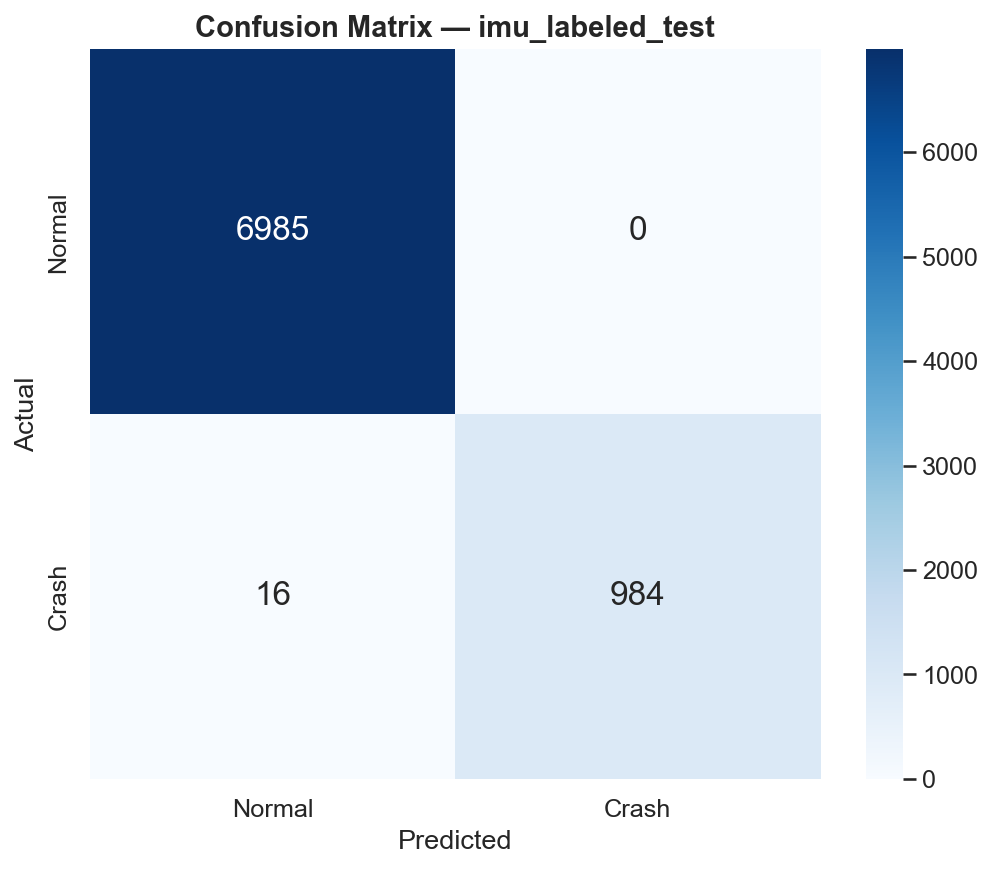
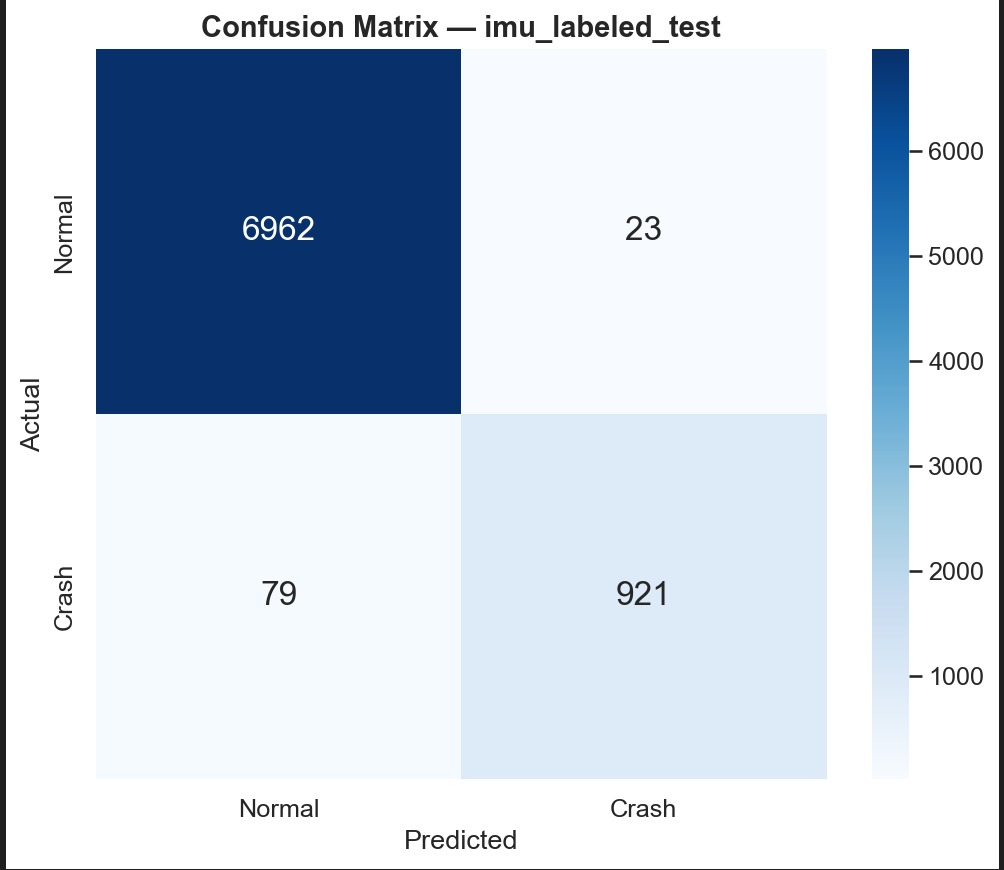
AI Code

diff --git a/AI Models/main.py b/AI Models/main.py
@@ -282,6 +282,28 @@ def evaluate_and_plot(model, X_test, y_test):
     f1 = f1_score(y_test, y_pred, zero_division=0)
 
     log.info(f"Test Results -> Acc: {acc:.4f} | Prec: {prec:.4f} | Rec: {rec:.4f} | F1: {f1:.4f} | Thresh: {best_thresh:.4f}")
+
+    cm = confusion_matrix(y_test, y_pred)
+    log.info("Confusion Matrix:")
+    log.info(f"  TN={cm[0][0]}  FP={cm[0][1]}")
+    log.info(f"  FN={cm[1][0]}  TP={cm[1][1]}")
+    log.info("\nClassification Report:\n%s", classification_report(y_test, y_pred, target_names=["Normal", "Crash"], zero_division=0))
+
+    # Save confusion matrix as image
+    fig, ax = plt.subplots(figsize=(6, 5))
+    sns.heatmap(cm, annot=True, fmt="d", cmap="Blues",
+                xticklabels=["Normal", "Crash"],
+                yticklabels=["Normal", "Crash"], ax=ax,
+                annot_kws={"size": 16})
+    ax.set_xlabel("Predicted Label", fontsize=13)
+    ax.set_ylabel("True Label", fontsize=13)
+    ax.set_title("Confusion Matrix — Crash Detection", fontsize=14, fontweight="bold")
+    plt.tight_layout()
+    cm_path = os.path.join(SAVE_DIR, "imu_labeled_test_confusion_matrix.png")
+    fig.savefig(cm_path, dpi=150)
+    plt.close(fig)
+    log.info(f"Confusion matrix saved to {cm_path}")
+
     return acc, prec, rec, f1, best_thresh
 
 def export_to_onnx(model, scaler, n_features: int, seq_len: int):